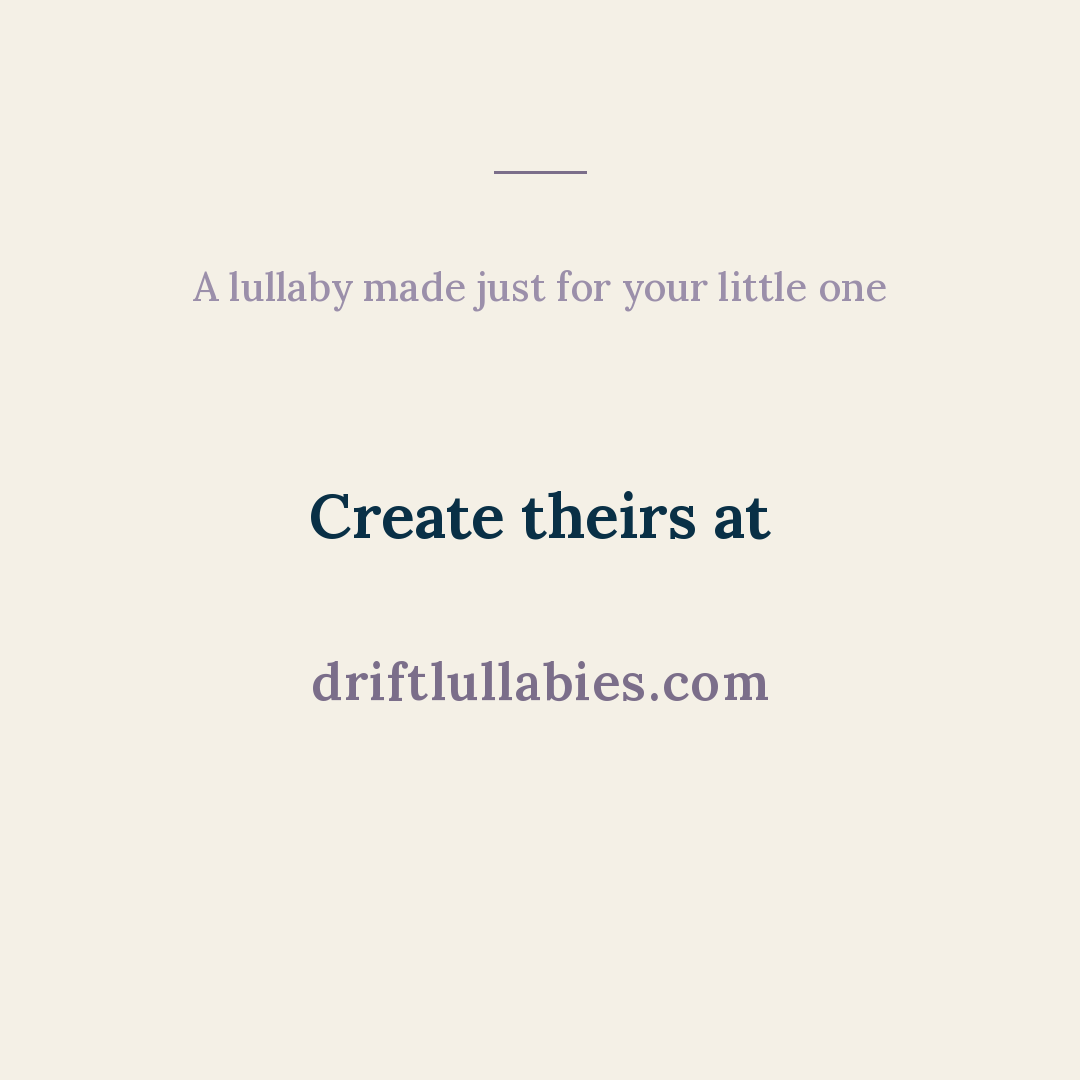
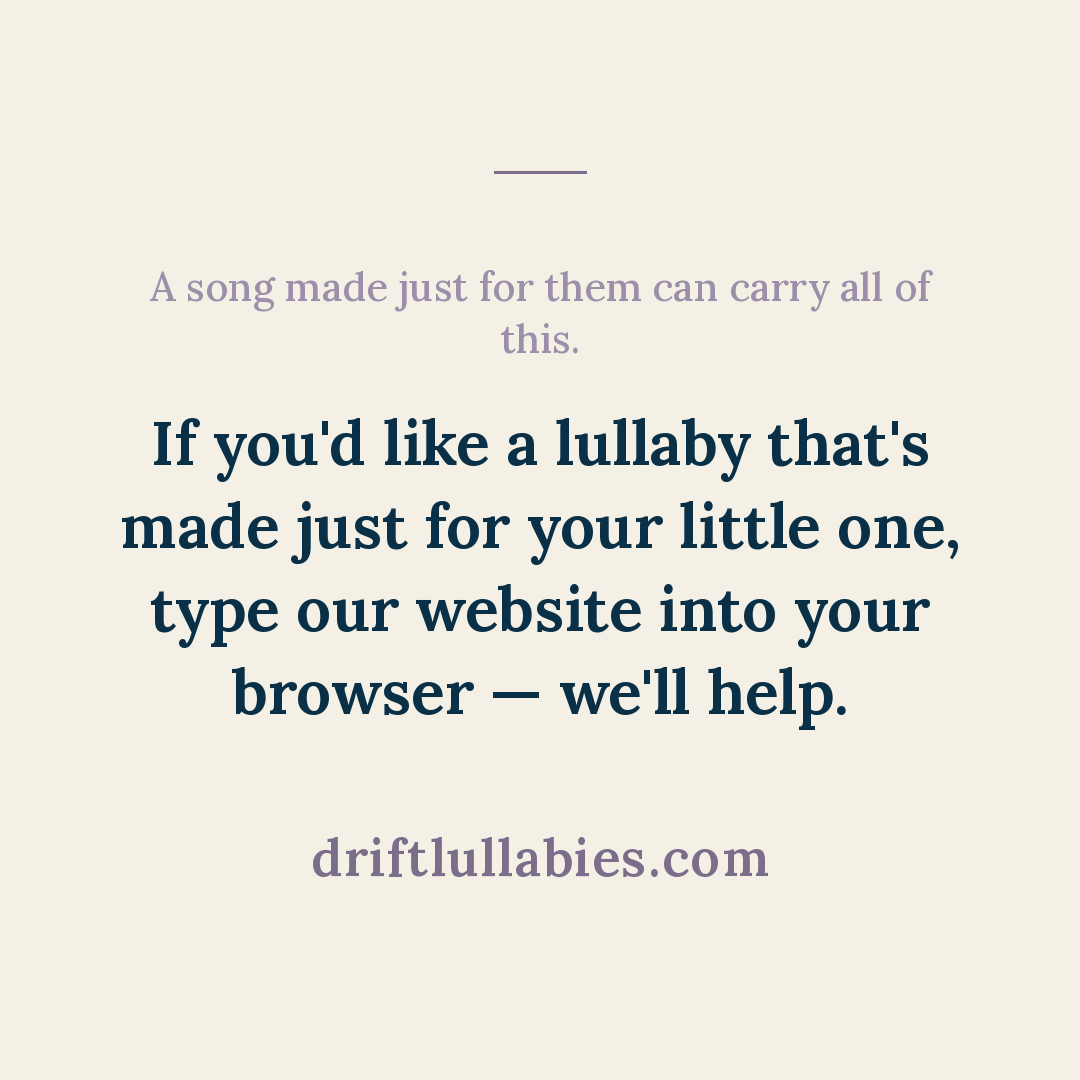
Add ad-test-what-a-lullaby-is-really-doing (Ad Test - What A Lullaby Is Really Doing)

diff --git a/posts/ad-test-what-a-lullaby-is-really-doing/slides.md b/posts/ad-test-what-a-lullaby-is-really-doing/slides.md
@@ -13,9 +13,9 @@ Most parents think a lullaby is just a nice thing to do before bed. But your bab
 02 — Long before they understand your words, they learn your patterns.
 03 — The song you sing tonight may become part of what makes them feel safe tomorrow.
 
-## CTA (slide 5)
-eyebrow: A lullaby made just for your little one
-main: Create theirs at
-url: driftlullabies.com
+## CTA (slide 5) — LOCKED website card
+eyebrow: A song made just for them can carry all of this.
+main: (render_cta default — the LOCKED website ask; do NOT override)
+url: driftlullabies.com (render_cta default)
 
 Rendered slide-1..slide-5 (weight 650, BG_CREAM; cover credibility byline on).
